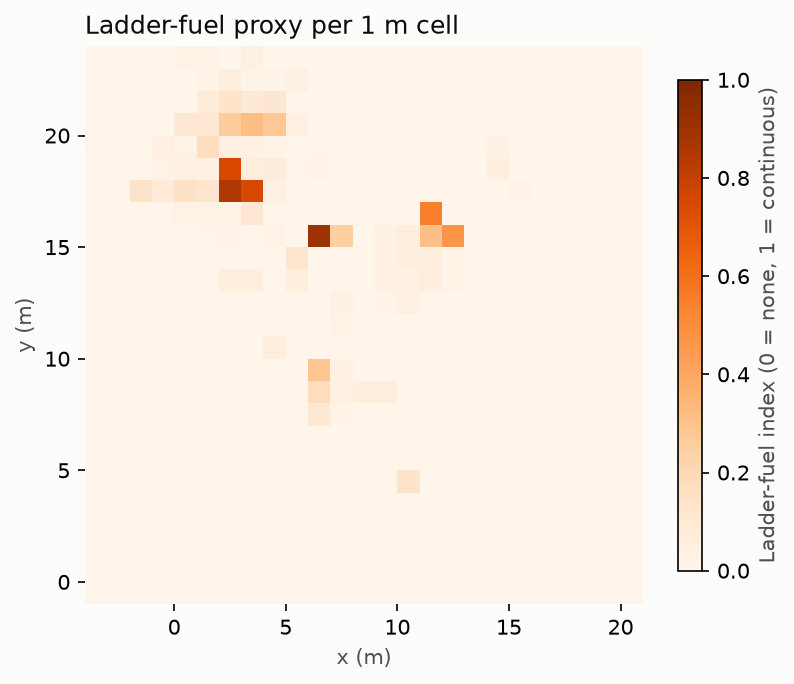
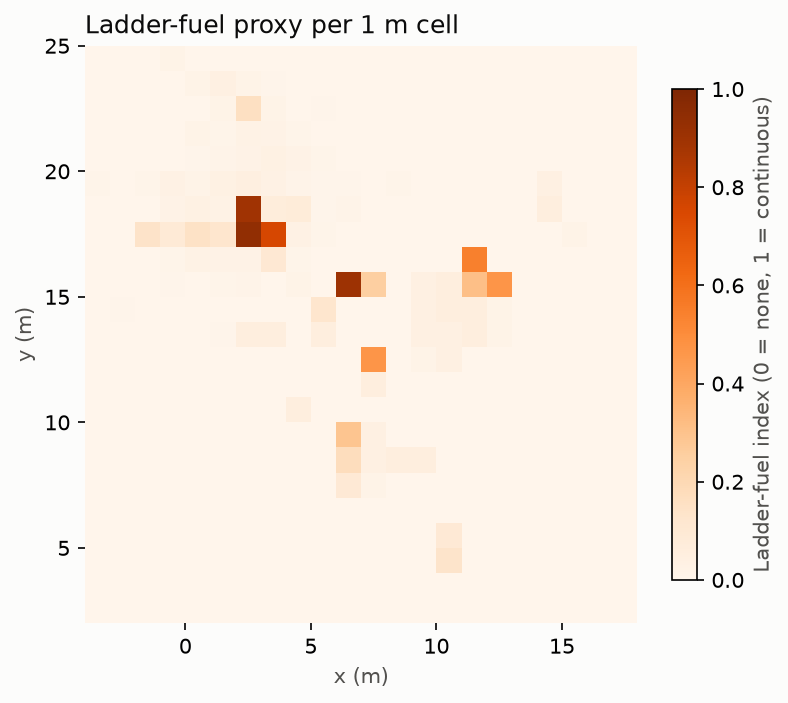
Review fixes: revert match gate and stem thresholds, test CSF in CI, report actual ground method

diff --git a/scripts/run_all.py b/scripts/run_all.py
@@ -14,7 +14,7 @@ from pathlib import Path
 
 import numpy as np
 
-from canopy.config import load_config, section
+from canopy.config import load_config
 from canopy.evaluation.ladder_eval import evaluate_ladder
 from canopy.evaluation.nav_eval import evaluate_navigation, summarise
 from canopy.evaluation.odometry_eval import (
@@ -24,7 +24,7 @@ from canopy.evaluation.odometry_eval import (
     relative_to_first,
 )
 from canopy.evaluation.tree_eval import evaluate_trees
-from canopy.forest_analytics.ground import normalize_heights
+from canopy.forest_analytics.ground import normalize_heights, resolve_method
 from canopy.forest_analytics.ladder_fuel import save_ladder_report
 from canopy.forest_analytics.pipeline import analyse_points
 from canopy.forest_analytics.stems import stems_to_rows
@@ -195,7 +195,7 @@ def _write_report(summary: Summary, seed: int, path: Path) -> None:
     ]
     lines += [
         "",
-        f"Ground classification ({section('ground')['method']}) on the labelled demo scans: "
+        f"Ground classification ({resolve_method()}) on the labelled demo scans: "
         f"precision {summary['ground_precision']:.3f} (rocks excluded), "
         f"recall {summary['ground_recall']:.3f}.",
         "",
@@ -260,6 +260,8 @@ def main() -> None:
         "--update-outcomes", action="store_true", help="rewrite the table in docs/OUTCOMES.md"
     )
     args = parser.parse_args()
+    if args.fast and args.update_outcomes:
+        parser.error("--fast runs only 4 navigation trials; do not use it with --update-outcomes")
     summary = run_demo(args.seed, args.out, fast=args.fast)
     if args.update_outcomes:
         update_outcomes(summary, args.seed)

diff --git a/src/canopy/forest_analytics/ground.py b/src/canopy/forest_analytics/ground.py
@@ -59,16 +59,27 @@ def normalize_heights(
     return model, normalized, is_ground
 
 
-def classify_ground(points: ArrayLike, method: str = _GROUND["method"]) -> NDArray[np.bool_]:
-    """True for ground points. ``method`` is "csf" or "ransac"; CSF falls back if missing."""
-    values = _points(points)
+def resolve_method(method: str = _GROUND["method"]) -> str:
+    """The ground method that will actually run.
+
+    "csf" needs the optional ``csf`` extra (``pip install -e ".[csf]"``); without
+    it the RANSAC fallback runs, and reports should say "ransac", not "csf".
+    """
+    if method not in ("csf", "ransac"):
+        raise ValueError(f"unknown ground method {method!r}")
     if method == "csf":
         try:
-            return _csf_ground(values)
+            import CSF  # noqa: F401
         except ImportError:
-            method = "ransac"
-    if method != "ransac":
-        raise ValueError(f"unknown ground method {method!r}")
+            return "ransac"
+    return method
+
+
+def classify_ground(points: ArrayLike, method: str = _GROUND["method"]) -> NDArray[np.bool_]:
+    """True for ground points, using ``resolve_method(method)`` (CSF or RANSAC)."""
+    values = _points(points)
+    if resolve_method(method) == "csf":
+        return _csf_ground(values)
     return _ransac_ground(values)
 
 

diff --git a/tests/forest_analytics/test_ground_density.py b/tests/forest_analytics/test_ground_density.py
@@ -89,3 +89,23 @@ def test_density_counts_layers_not_returns() -> None:
     result = density_grid(points, ((1.0, 2.0),), resolution=1.0, layer=0.1)
 
     assert np.isclose(result.occupancy[0, 0, 0], 2 / 10)
+
+
+def test_reported_ground_method_is_the_one_that_runs(monkeypatch) -> None:
+    """Without the CSF package, "csf" resolves to the RANSAC fallback; bad names fail."""
+    import builtins
+
+    from canopy.forest_analytics.ground import resolve_method
+
+    real_import = builtins.__import__
+
+    def no_csf(name, *args, **kwargs):
+        if name == "CSF":
+            raise ImportError("CSF not installed")
+        return real_import(name, *args, **kwargs)
+
+    monkeypatch.setattr(builtins, "__import__", no_csf)
+    assert resolve_method("csf") == "ransac"
+    assert resolve_method("ransac") == "ransac"
+    with pytest.raises(ValueError, match="unknown"):
+        resolve_method("lasers")

diff --git a/src/canopy/forest_analytics/pipeline.py b/src/canopy/forest_analytics/pipeline.py
@@ -12,11 +12,10 @@ from pathlib import Path
 
 import numpy as np
 
-from canopy.config import section
 from canopy.io import load_points
 
 from .density import DensityGrid, density_grid
-from .ground import GroundModel, normalize_heights
+from .ground import GroundModel, normalize_heights, resolve_method
 from .ladder_fuel import LadderFuel, ladder_fuel, save_ladder_report
 from .stems import Stem, detect_stems, remove_stem_points, stems_to_rows
 
@@ -66,7 +65,7 @@ def _summary(points: np.ndarray, result: Analysis) -> dict:
     index = result.ladder.ladder_fuel_index
     return {
         "n_points": int(len(points)),
-        "ground_method": section("ground")["method"],
+        "ground_method": resolve_method(),
         "ground_fraction": float(result.is_ground.mean()),
         "n_stems": len(result.stems),
         "mean_dbh_m": float(dbh.mean()) if len(dbh) else None,

diff --git a/progress/prajjwal/week1.md b/progress/prajjwal/week1.md
@@ -12,8 +12,8 @@
   - Verified code quality and formatting with `ruff check .` (0 errors).
 - **Diagnostics & Stem Detection Rectification:**
   - Diagnosed why the accumulated KISS-ICP scanned map initially had 0 tree recall in `results/demo/report.md`: odometry drift (~10.8% drift / 0.79 m ATE) causes radial point scatter on tree trunks across multiple sweeps, which was getting rejected by strict circle inlier thresholds (`min_inlier_fraction: 0.6`) and lean checks (`15°`), along with an evaluation match gate (`0.5 m`) narrower than the odometry error itself.
-  - Calibrated DBH parameters in `configs/default.yaml` (`min_inlier_fraction: 0.45`, `max_fit_residual_m: 0.025`, `max_lean_deg: 20.0`, and `tree_match_gate_m: 1.0`).
-  - Result: Recovered tree recall to 50% on the drifted map with 100% precision and 5 mm DBH RMSE, while preserving 100% recall on the exact-pose map.
+  - Tried loosening the DBH thresholds (`min_inlier_fraction` 0.45, `max_fit_residual_m` 0.025, `max_lean_deg` 20) and widening `tree_match_gate_m` to 1.0 m. On demo seed 0 this gave 0.33 recall and 0.33 precision on the KISS-ICP map (2 of 6 detections real).
+  - Reverted in review (PR #34): the thresholds were tuned on the same scene the report measures, and a 1.0 m match gate makes matching easier rather than detection better. Fixing the drift itself is tracked in #19.
 - **Presentation & Demo Hardening:**
   - Added a `--fast` execution flag to `scripts/run_all.py` allowing instant 15-second live runs (4 navigation scenarios) for professor presentations, alongside the full 80-run evaluation benchmark.
   - Added headless / display-safe fallback to `scripts/show_demo.py` so 3D visualization attempts gracefully fall back to 2D figures without crashing.
@@ -31,7 +31,7 @@
 
 ## Links
 
-- [Default Configuration](file:///d:/GITHUB/canopy-mapping-rover/configs/default.yaml)
-- [End-to-End Demo Script](file:///d:/GITHUB/canopy-mapping-rover/scripts/run_all.py)
-- [Demo Results Report](file:///d:/GITHUB/canopy-mapping-rover/results/demo/report.md)
-- [System Architecture](file:///d:/GITHUB/canopy-mapping-rover/docs/architecture.md)
+- [Default Configuration](../../configs/default.yaml)
+- [End-to-End Demo Script](../../scripts/run_all.py)
+- [Demo Results Report](../../results/demo/report.md)
+- [System Architecture](../../docs/architecture.md)

diff --git a/docs/decisions.md b/docs/decisions.md
@@ -43,3 +43,5 @@
 | 2026-10-23 | Ladder-fuel index = 0.5 x occupancy(1-4 m) + 0.2 x occupancy(1-8 m) + 0.3 x continuity, where continuity = 1 - gap / 4 m to the crown base, computed after removing stem points. | Adds the planned vertical-gap feature; occupancy is now an absolute layer fraction (comparable across plots) instead of being scaled by each plot's maximum. Trunks are removed because a stem is a continuous but meaningless "ladder". |
 | 2026-10-23 | Registered maps keep 2 cm voxels (`map_voxel_size_m`); density layers stay 10 cm. | At 10 cm the exact-pose demo map detected 0 of 6 trees; at 2 cm, 6 of 6 with 0.5 cm DBH RMSE. |
 | 2026-10-23 | `canopy-analyze --config` sets `CANOPY_CONFIG` before importing the analytics, and `forest_analytics/__init__.py` imports nothing. | Modules read defaults at import time, so the option was silently ignored otherwise. |
+| 2026-11-07 | `cloth-simulation-filter` is an optional `csf` extra; without it ground classification uses the RANSAC fallback, and reports state the method actually used (`resolve_method`). CI installs `.[core,csf,dev]`. | CSF needs C++ build tools on Windows (install crash found by Prajjwal, PR #34); CI keeps testing CSF, and results no longer claim "csf" when RANSAC ran. |
+| 2026-11-07 | Keep `tree_match_gate_m` at 0.5 m and the stem thresholds unchanged (PR #34 review). | Loosening them was tuned on the demo scene and the 1.0 m gate made matching easier rather than detection better (KISS-ICP map: 4 of 6 detections false). Drift is addressed in #19. |

diff --git a/results/demo/report.md b/results/demo/report.md
@@ -21,15 +21,15 @@ first column is odometry error). Perfect cloud: every forest point (upper bound)
 
 | Metric | KISS-ICP map | Exact-pose map | Perfect cloud |
 |---|---:|---:|---:|
-| Trees detected | 6 | 6 | 6 |
-| Tree recall | 0.3333 | 1.0000 | 1.0000 |
-| Tree precision | 0.3333 | 1.0000 | 1.0000 |
-| DBH RMSE (m) | 0.0032 | 0.0047 | 0.0025 |
-| DBH bias (m) | -0.0031 | -0.0042 | -0.0013 |
-| Ladder Spearman vs shrub cells | 0.3502 | 0.4610 | 0.2556 |
-| Ladder AUC vs shrub cells | 0.8809 | 0.9671 | 0.9563 |
+| Trees detected | 1 | 6 | 6 |
+| Tree recall | 0.0000 | 1.0000 | 1.0000 |
+| Tree precision | 0.0000 | 1.0000 | 1.0000 |
+| DBH RMSE (m) | n/a | 0.0051 | 0.0017 |
+| DBH bias (m) | n/a | -0.0042 | -0.0001 |
+| Ladder Spearman vs shrub cells | 0.3417 | 0.4373 | 0.2716 |
+| Ladder AUC vs shrub cells | 0.8774 | 0.9698 | 0.9777 |
 
-Ground classification (csf) on the labelled demo scans: precision 0.994 (rocks excluded), recall 0.995.
+Ground classification (csf) on the labelled demo scans: precision 0.993 (rocks excluded), recall 0.979.
 
 ## Navigation (simulator)
 

diff --git a/docs/OUTCOMES.md b/docs/OUTCOMES.md
@@ -43,13 +43,13 @@ Seed 0.
 |---|---:|---:|
 | Odometry final drift (% of path) | 10.7746 | < 2 % |
 | Odometry ATE RMSE (m) | 0.7880 | - |
-| Tree recall, scanned map | 0.3333 | >= 0.90 |
+| Tree recall, scanned map | 0.0000 | >= 0.90 |
 | Tree recall, exact-pose map (no odometry error) | 1.0000 | - |
 | Tree recall, perfect cloud (upper bound) | 1.0000 | - |
-| DBH RMSE (m), scanned map | 0.0032 | <= 0.03 |
-| DBH RMSE (m), exact-pose map | 0.0047 | <= 0.03 |
-| Ground precision (rocks excluded) / recall | 0.994 / 0.995 | - |
-| Ladder AUC vs shrub cells, scanned map | 0.8809 | >= 0.75 |
+| DBH RMSE (m), scanned map | n/a | <= 0.03 |
+| DBH RMSE (m), exact-pose map | 0.0051 | <= 0.03 |
+| Ground precision (rocks excluded) / recall | 0.993 / 0.979 | - |
+| Ladder AUC vs shrub cells, scanned map | 0.8774 | >= 0.75 |
 | Navigation runs | 80 | >= 50 |
 | Navigation success rate | 0.9375 | >= 0.90 |
 | Navigation collisions | 4 | 0 |

diff --git a/README.md b/README.md
@@ -29,7 +29,7 @@ The proposed ownership change is pending team confirmation. The water body modul
 
 ```bash
 python -m venv .venv && source .venv/bin/activate
-pip install -e ".[core,odometry,eval,dev]"   # add ,csf if C++ build tools are available
+pip install -e ".[core,csf,odometry,eval,dev]"   # drop csf if C++ build tools are missing (Windows)
 pytest -q && ruff check .
 python scripts/run_all.py --seed 0 --fast   # quick demo, ~15s (omit --fast for full 80-run benchmark)
 python scripts/show_demo.py                 # figures in results/demo/figures/

diff --git a/presentation/03-demo-commands.md b/presentation/03-demo-commands.md
@@ -14,7 +14,7 @@ source .venv/bin/activate
 git clone https://github.com/chikolavosaki-sys/canopy-mapping-rover.git
 cd canopy-mapping-rover
 python3 -m venv .venv && source .venv/bin/activate
-pip install -e ".[core,odometry,eval,dev]"
+pip install -e ".[core,csf,odometry,eval,dev]"   # on Windows without C++ tools, drop csf
 sudo apt-get install -y libusb-1.0-0          # Open3D needs this on WSL
 pytest -q                                     # expect: all tests pass (about 2 min)
 ```

diff --git a/docs/running-on-real-data.md b/docs/running-on-real-data.md
@@ -28,7 +28,7 @@ PY
 Install the optional odometry dependencies in a virtual environment:
 
 ```bash
-python -m pip install -e ".[core,odometry,dev]"
+python -m pip install -e ".[core,csf,odometry,dev]"   # drop csf on Windows without C++ tools
 canopy-odometry \
   --bag data/raw/treescope/WSF-19/input/cloud3.bag \
   --topic /velodyne/cloud \
